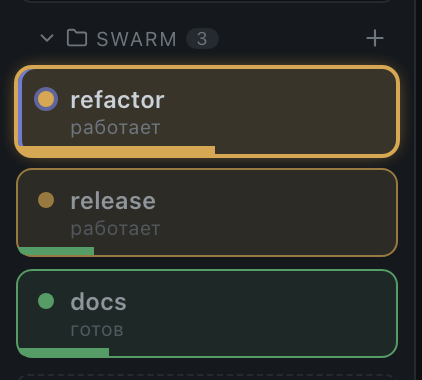
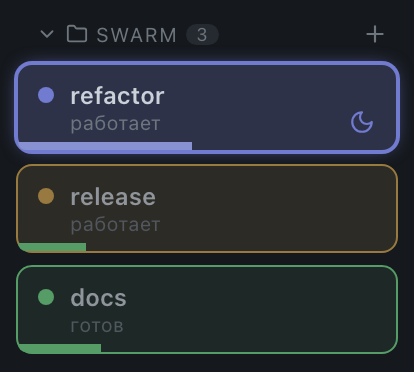
docs: пересняты четыре кадра, разошедшиеся с интерфейсом
Ночная карточка (22) была со синей кромкой и колечком, которых больше нет —
теперь фиолетовая карточка с горящим полумесяцем. Счётчик (23) говорил «1
вкладка сами», страница настроек (19) звалась «Авто» и показывала метку
`swarm:auto», которой нет с прошлой весны, вопрос владения (24) обещал правый
клик.

Кадры сняты тем же оффскрин-стендом. Грабли, на которые он наступает,
дописаны в docs/img/README.md — их набралось на девять пунктов, и половина
даёт не ошибку, а пустой PNG или кадр без нужной кнопки.

diff --git a/docs/img/README.md b/docs/img/README.md
@@ -58,6 +58,29 @@
 Стенд лежит не в репозитории (он одноразовый), но собирается за десять минут по этому
 рецепту: скрытое `BrowserWindow` с подставным `preload` вместо моста, `loadFile` на
 настоящий `renderer/index.html`, дальше `executeJavaScript` зовёт функции рендерера
-(`createSession`, `setStatus`, `showSettingsModal`, `openPresenceMenu`, `applyLayout`)
-и `capturePage()` пишет PNG. Второй экземпляр приложения при этом не поднимается —
-у окна свой `userData`.
+(`createSession`, `setStatus`, `showSettingsModal`, `openPresenceMenu`, `applyLayout`,
+`askGate`, `renderNightPill`, `renderGitBar`) и `capturePage()` пишет PNG. Второй экземпляр
+приложения при этом не поднимается — у окна свой `userData`.
+
+Грабли, на которые наступает каждый, кто собирает стенд заново:
+
+- **Приложение открывает вкладку само** на пустом старте — в кадре ей нечего делать,
+  гасите её (`closeSession`) до того, как заведёте свои.
+- **`userData` стенда нужно стирать** перед прогоном: иначе boot восстановит вкладки прошлого
+  раза, и в кадре их станет вдвое больше.
+- **`zoomFactor: 1`** для кадров всего окна: `capturePage` и так отдаёт 2x на retina, а зум 2
+  сжимает раскладку до 600px по ширине, и модалка настроек в неё не влезает.
+- **Прямоугольник обрезки — в DIP окна**, а `getBoundingClientRect` отдаёт CSS-пиксели
+  зумленной страницы: при зуме их надо умножить. Отрицательный `x` или выход за край окна
+  дают пустой PNG без всякой ошибки.
+- **Наведение** делается настоящим `sendInputEvent({ type: 'mouseMove' })` — координаты тоже
+  в DIP. Иначе `:hover` не срабатывает, и кнопки, которые появляются по наведению (крестик,
+  полумесяц), в кадр не попадают.
+- **`askGate` ждёт кнопки**, поэтому вызывать его надо без `await` результата (`void askGate(id); 1`),
+  иначе стенд висит до таймаута.
+- **Подписи статуса приходят из main**, которого в стенде нет: `setStatus(id, 'running')`
+  оставит подпись «готов». Передавайте деталь вторым аргументом.
+- **Заготовки ночного правила** в кадре настроек берутся из `night.state()` — стенд должен
+  отдать `ruleDefault`, `askDefault` и `tag`, иначе поля пустые, а в подписи «Метка вопроса — .»
+- **Плашка «Обновить undefined»** вылезает, если стенд отвечает на `updateCheck` объектом без
+  версии.
